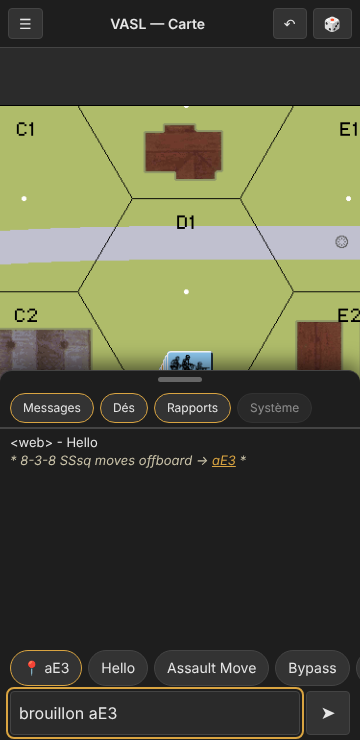
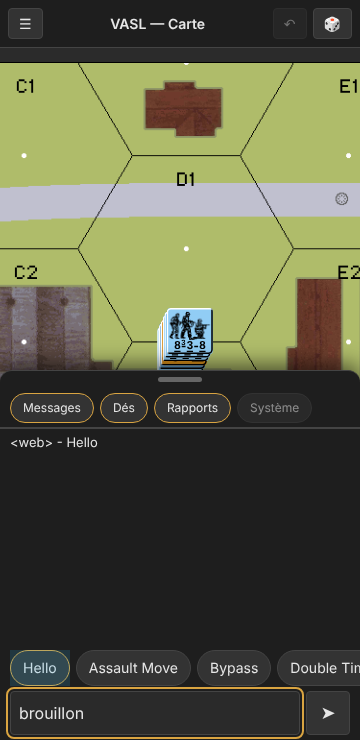
carte.html : saisie rapide réduite aux cinq phrases
Au doigt, la rangée au-dessus du champ ne propose plus que Hello,
Assault Move, Bypass, Double Time et Dash, envoyées d'un appui. Le lieu
de la pile, les phases et l'édition des phrases (✎) sont retirés, avec
leur code (lecture des noms de phases, insertion au curseur).

Claude-Session: https://claude.ai/code/session_013yYkapsrtKY7N7D1JLDbed

diff --git a/carte.html b/carte.html
@@ -241,10 +241,6 @@ body:not([data-terminal=pc]) .lieuChat{color:var(--accent);text-decoration:under
   background:var(--barre)}
 body[data-terminal=mobile].chatOuvert .chatRapide,body[data-terminal=tablette] #bas:not(.replie) .chatRapide{display:flex}
 .pastilleChat{flex:none;height:36px;padding:0 12px;border-radius:18px;white-space:nowrap;font-size:14px}
-.pastilleChat.lieu{border-color:var(--accent)}
-.pastilleChat.phase{color:#9fc7ff}
-.phrasesChat{width:calc(100% - 20px);margin:6px 10px 10px;min-height:40vh;font:16px/1.4 inherit;background:var(--champ);
-  color:var(--menu-texte);border:1px solid var(--menu-bord);border-radius:4px;padding:8px}
 body[data-terminal=mobile] #bas[data-etat=compact] .poigneeChat{display:block;flex:none;height:18px;touch-action:none;position:relative}
 .poigneeChat::after{content:"";position:absolute;left:50%;top:6px;width:44px;height:5px;margin-left:-22px;border-radius:3px;background:#666}
 .apercuChat{display:flex;align-items:center;gap:6px;height:28px;padding:0 4px 0 10px;background:#232323;
@@ -11629,18 +11625,7 @@ async function _chargerBDD(){
     bottom: lireTouche(sm.getAttribute('bottom')) || METRIQUES_DEFAUT.bottom,
     up: lireTouche(sm.getAttribute('up')) || METRIQUES_DEFAUT.up,
     down: lireTouche(sm.getAttribute('down')) || METRIQUES_DEFAUT.down} : null;
-  // Noms des phases : ceux des niveaux de la couche « Phase » de la roue
-  // des phases (images MC/Phase1…8), si le module les donne.
-  let nomsPhases = null;
-  for(const t of [...protos.values(), ...slots.map(x => x.cmd)]){
-    const m = t.match(/emb2;[^\t]*?Phase1\.svg[^\t]*/);
-    if(!m) continue;
-    const ch = m[0].split(';'), i = ch.findIndex(c => /Phase1\.svg/.test(c));
-    const noms = (ch[i + 1] || '').split(',').map(x => x.replace(/\\/g, '').trim());
-    if(noms.some(Boolean)) nomsPhases = noms;
-    break;
-  }
-  _bdd = {cats, pions: slots, protos, parGpid, parChemin, arbre, massRemover, stackMetrics, nomsPhases, version: mod.getAttribute('version')};
+  _bdd = {cats, pions: slots, protos, parGpid, parChemin, arbre, massRemover, stackMetrics, version: mod.getAttribute('version')};
   rendreToutes();
   // Les pions déjà sur la carte gagnent les couches de leurs prototypes.
   for(const p of vivants()) majApparence(p);
@@ -14072,45 +14057,14 @@ function _brancherPoigneeChat(){
 }
 
 // ═══ CHAT — SAISIE RAPIDE ═══
-// Au doigt, une rangée de pastilles au-dessus du champ : le lieu de la pile
-// sélectionnée, des phrases, les phases. Une phrase part au chat dès
-// l'appui ; le lieu et les phases s'insèrent au curseur (on complète, puis
-// on envoie), et un appui long les envoie seuls.
-// Phases : la base VASL 6.7.x ne nomme pas les niveaux de sa roue des
-// phases (huit images MC/Phase1…8, noms vides) ; on prend alors les
-// abréviations du livre de règles ASL, dans l'ordre du tour.
-const PHASES_ASL = ['RPh', 'PFPh', 'MPh', 'DFPh', 'AFPh', 'RtPh', 'APh', 'CCPh'];
-const PHRASES_DEFAUT = ['Hello', 'Assault Move', 'Bypass', 'Double Time', 'Dash'];
-const _PHRASES_ANCIENNES = 'OK|À toi|Attends|Fini|Merci';
-function phrasesChat(){
-  try {
-    const l = JSON.parse(localStorage.getItem('aslweb.phrasesChat') || 'null');
-    // La première liste par défaut, enregistrée telle quelle, cède la place à la nouvelle.
-    if(Array.isArray(l) && l.join('|') !== _PHRASES_ANCIENNES) return l.filter(x => typeof x === 'string' && x.trim());
-  } catch(e){}
-  return PHRASES_DEFAUT.slice();
-}
-const phasesChat = () => (_bdd && _bdd.nomsPhases && _bdd.nomsPhases.filter(Boolean).length) ? _bdd.nomsPhases.filter(Boolean) : PHASES_ASL;
-
-// Insère au curseur, précédé d'une espace si besoin ; le focus revient au
-// champ dans le même geste (iOS n'ouvre le clavier qu'ainsi).
-function insererChat(t){
-  const ci = document.getElementById('chatIn');
-  const v = ci.value, a = ci.selectionStart ?? v.length, b = ci.selectionEnd ?? v.length;
-  const avant = v.slice(0, a), ajout = (avant && !/\s$/.test(avant) ? ' ' : '') + t;
-  ci.value = avant + ajout + v.slice(b);
-  ci.focus();
-  const k = a + ajout.length;
-  try { ci.setSelectionRange(k, k); } catch(e){}
-  _majEnvoi();
-}
-
+// Au doigt, une rangée de phrases au-dessus du champ : un appui l'envoie
+// au chat telle quelle, sans passer par le champ (le brouillon reste).
+const PHRASES_CHAT = ['Hello', 'Assault Move', 'Bypass', 'Double Time', 'Dash'];
 function majSaisieRapide(){
   const r = document.getElementById('chatRapide');
   if(!r) return;
   r.replaceChildren();
-  // Phrase (direct) : envoyée telle quelle au chat, d'un seul appui.
-  const phrase = texte => {
+  for(const texte of PHRASES_CHAT){
     const b = document.createElement('button');
     b.type = 'button'; b.className = 'pastilleChat phrase';
     b.textContent = texte;
@@ -14118,56 +14072,8 @@ function majSaisieRapide(){
     b.addEventListener('pointerdown', e => e.preventDefault());   // le clavier ne bouge pas
     b.addEventListener('click', () => { vibrer(); envoyerChat(texte); });
     r.appendChild(b);
-  };
-  const pastille = (texte, cls, titre) => {
-    const b = document.createElement('button');
-    b.type = 'button'; b.className = 'pastilleChat ' + (cls || '');
-    b.textContent = texte;
-    b.title = titre || 'Appui : insérer — appui long : envoyer';
-    let long = false, t = null;
-    b.addEventListener('pointerdown', e => {
-      e.preventDefault();           // le champ garde le focus
-      long = false;
-      t = setTimeout(() => { long = true; vibrer(); envoyerChat(b._texte); }, APPUI_LONG);
-    });
-    const annuler = () => clearTimeout(t);
-    b.addEventListener('pointerup', annuler); b.addEventListener('pointercancel', annuler); b.addEventListener('pointerleave', annuler);
-    b.addEventListener('click', () => { if(long){ long = false; return; } insererChat(b._texte); });
-    b._texte = texte;
-    r.appendChild(b);
-    return b;
-  };
-  // Le lieu de la pile sélectionnée, nommé comme dans les rapports.
-  const s = _pileSel ? pile(_pileSel) : [];
-  if(s.length){
-    const l = lieu(s[0].x, s[0].y);
-    if(l !== 'offboard'){ const b = pastille('📍 ' + l, 'lieu'); b._texte = l; }
   }
-  for(const p of phrasesChat()) phrase(p);
-  for(const p of phasesChat()) pastille(p, 'phase');
-  const ed = document.createElement('button');
-  ed.type = 'button'; ed.className = 'pastilleChat modif';
-  ed.textContent = '✎'; ed.title = 'Modifier les phrases'; ed.setAttribute('aria-label', 'Modifier les phrases');
-  ed.addEventListener('click', editerPhrasesChat);
-  r.appendChild(ed);
 }
-
-// Une phrase par ligne ; enregistré à la fermeture, lignes vides ignorées.
-function editerPhrasesChat(){
-  const z = document.createElement('textarea');
-  z.className = 'phrasesChat';
-  z.value = phrasesChat().join('\n');
-  z.setAttribute('aria-label', 'Phrases rapides, une par ligne');
-  const f = ouvrirFeuille({id: 'feuillePhrases', titre: 'Phrases rapides', fermer: () => {
-    const l = z.value.split('\n').map(x => x.trim()).filter(Boolean);
-    try { localStorage.setItem('aslweb.phrasesChat', JSON.stringify(l)); } catch(e){}
-    majSaisieRapide();
-  }});
-  f.corps.appendChild(z);
-  z.focus();
-}
-_apresSelection.push(() => { if(_etatChat || _profil === 'tablette') majSaisieRapide(); });
-_apresEtatChat.push(e => { if(e) majSaisieRapide(); });
 
 // ═══ CHAT — LECTURE ═══
 // Filtres du journal (au doigt) : Messages, Dés, Rapports, Système, par

diff --git a/tests/chat3.js b/tests/chat3.js
@@ -11,13 +11,6 @@ const {ouvrir} = require('./commun.js');
   [x, y] = await pos('#chatRapide .phrase'); await touche('touchStart', [[x, y, 1]]); await touche('touchEnd', []); await pg.waitForTimeout(100);
   out.envoye = await pg.evaluate(() => _histo.flatMap(e => e.cmds).filter(c => c.startsWith('CHAT')));
   out.champ = await pg.evaluate(() => document.getElementById('chatIn').value);
-  // 2. lieu de la pile sélectionnée, puis déplacement : le même nom au rapport
-  await pg.evaluate(() => { fermerChat(); deplacer(pile('1300,700'), 1080, 820); });
-  await pg.evaluate(() => ouvrirChat(false));
-  out.lieu = await pg.evaluate(() => document.querySelector('#chatRapide .lieu') && document.querySelector('#chatRapide .lieu').textContent);
-  out.rapport = await pg.evaluate(() => [...document.querySelectorAll('#journal .rap')].pop().textContent);
-  [x, y] = await pos('#chatRapide .lieu'); await touche('touchStart', [[x, y, 1]]); await touche('touchEnd', []); await pg.waitForTimeout(100);
-  out.insere = await pg.evaluate(() => [document.getElementById('chatIn').value, document.activeElement.id]);
   await pg.screenshot({path: 'chat3.png'});
   console.log(JSON.stringify(out), errs);
   await b.close();

diff --git a/tests/README.md b/tests/README.md
@@ -53,7 +53,7 @@ captures d'écran) vont dans `tests/sortie/`, ignoré par git.
 | `vues.js` | Vues Pile, Pions, Journal, Plus du téléphone |
 | `chat0.js` | Journal non ramené en bas, profil gelé pendant la saisie |
 | `chat2.js` | Relecture d'un log de 50 messages chat compact ouvert ; message reçu en vue Carte ; Retour |
-| `chat3.js` | une phrase envoyée d'un appui ; 📍 lieu identique à celui des rapports |
+| `chat3.js` | Seules les 5 phrases ; une phrase envoyée d'un appui, brouillon gardé |
 | `chat4.js` | Filtres, lieu cliquable, Retour depuis le journal plein |
 | `pcchat.js` | Rien de nouveau visible sur PC |
 
